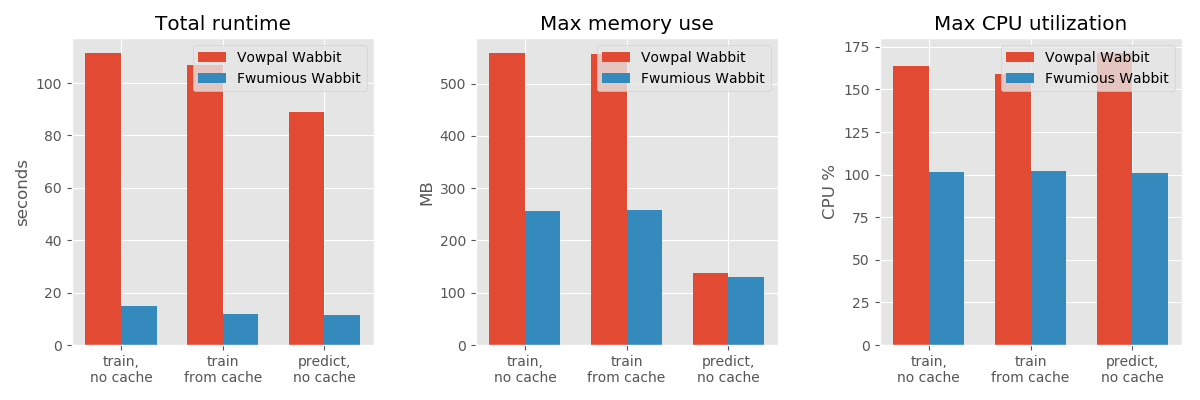
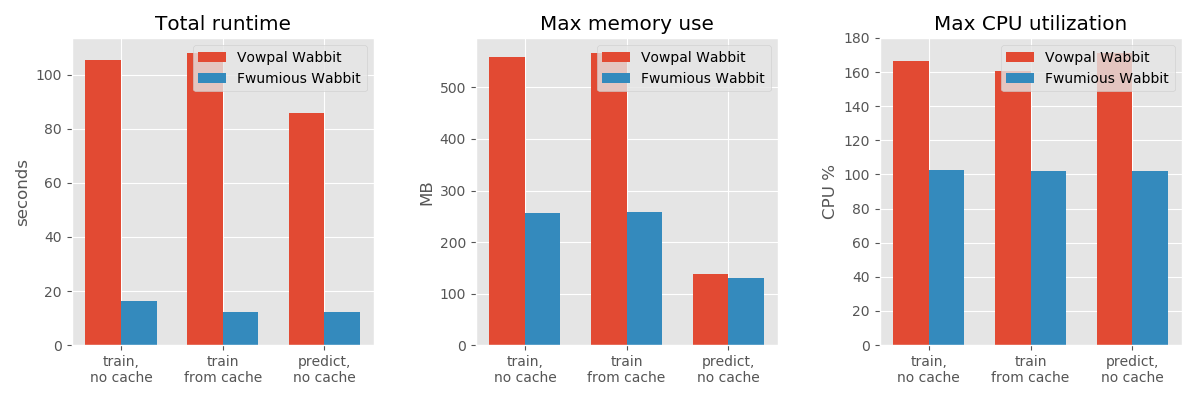
bumping version & benchmark info

diff --git a/src/version.rs b/src/version.rs
@@ -1,1 +1,1 @@
-pub static LATEST: &str = "0.8";
+pub static LATEST: &str = "0.1";

diff --git a/BENCHMARK.md b/BENCHMARK.md
@@ -14,12 +14,12 @@ here are the results for 3 runs for each scenario, taking mean values:
 ![benchmark results](benchmark_results.png)
 Scenario|Runtime (seconds)|Memory (MB)|CPU %
 ----|----:|----:|----:
-vw train, no cache|111.51 | 559 | 163.90
-fw train, no cache|15.05 | 257 | 101.83
-vw train, using cache|106.84 | 557 | 159.37
-fw train, using cache|11.86 | 257 | 102.20
-vw predict, no cache|89.08 | 139 | 171.43
-fw predict, no cache|11.41 | 129 | 101.00
+vw train, no cache|105.54 | 559 | 166.53
+fw train, no cache|16.21 | 257 | 102.43
+vw train, using cache|108.06 | 567 | 160.70
+fw train, using cache|12.25 | 257 | 101.77
+vw predict, no cache|85.90 | 139 | 171.23
+fw predict, no cache|12.29 | 129 | 102.07
 
 ### Model equivalence
 loss values for the test set:
@@ -81,8 +81,8 @@ or, if you just want the numbers with less dependencies run:
 
 ### versions:
 ```
-vowpal wabbit 8.9.0 (git commit: e5dad846b)
-fwumious wabbit 0.8 (git commit: 2baec44)
+vowpal wabbit 8.9.0 (git commit: dfb357073)
+fwumious wabbit 0.1 (git commit: 01fc5d2)
 ```
 
 ### CPU Info
